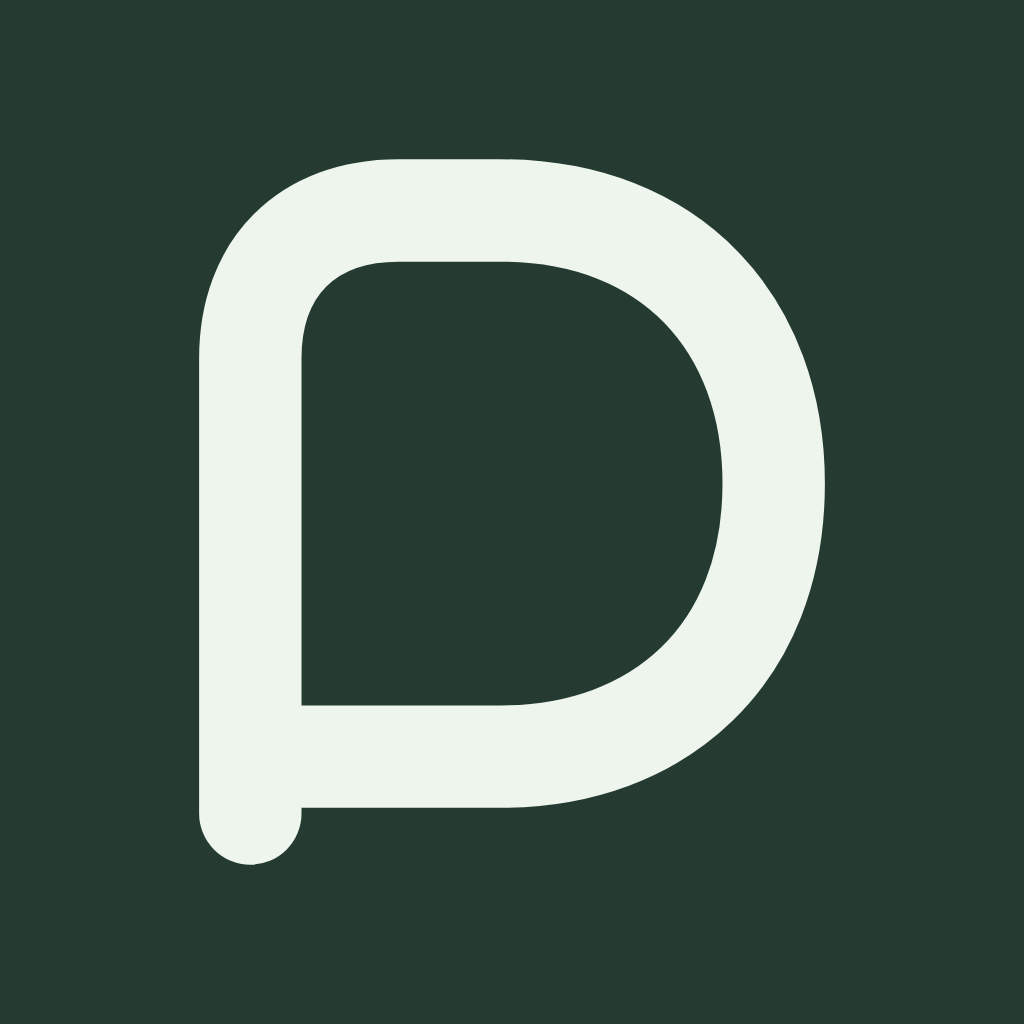
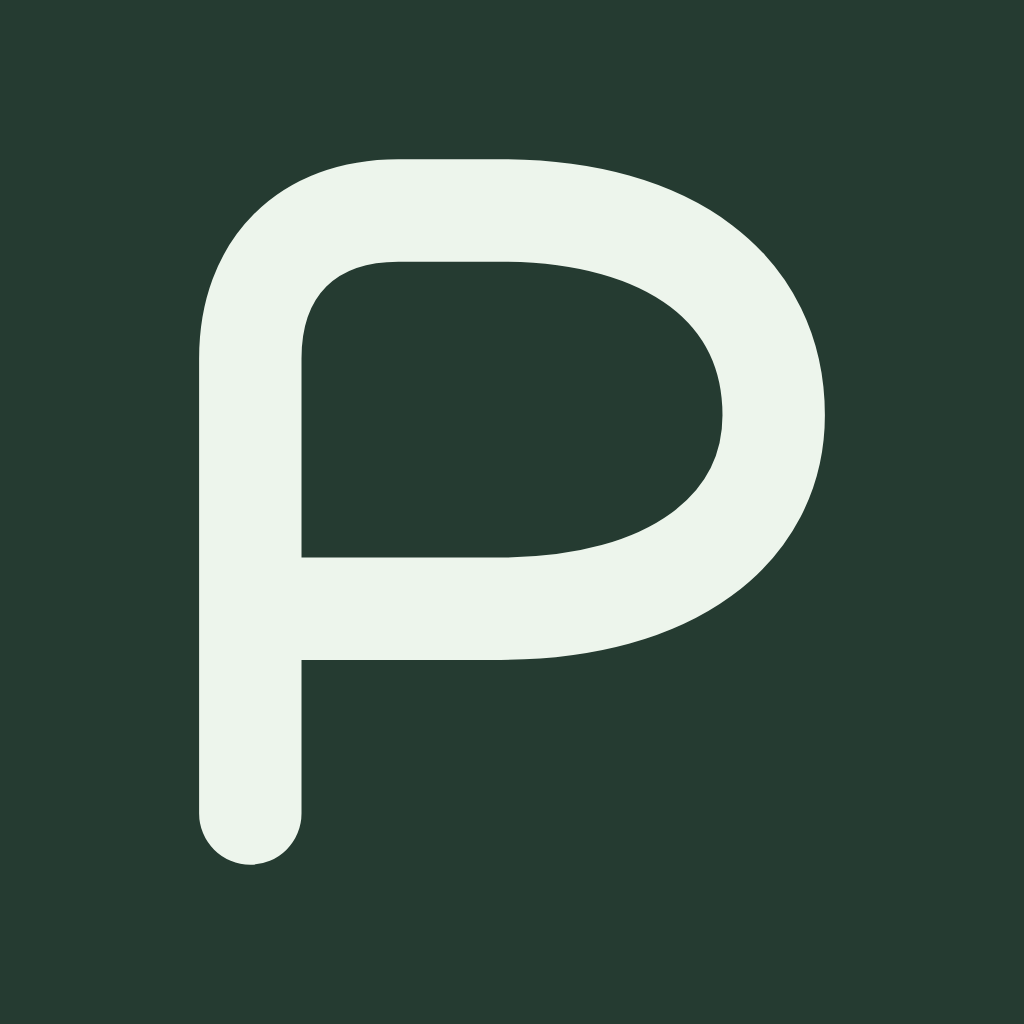
Update brand assets and styles
- Modified the SVG files for social source and favicon to enhance visual consistency.
- Updated CSS for Brand component to adjust gap size for better alignment.
- Changed spacing values in brand generation script for improved typography.
- Updated JSON file for brand identity to reflect new SVG paths.
- Replaced binary favicon and icon images with updated versions for better quality.

Changed region(s): [[0.2812, 0.1875, 0.8125, 0.8125], [0.5625, 0.25, 0.6562, 0.3125], [0.5625, 0.1562, 0.6562, 0.1875]]

diff --git a/frontend/src/components/Brand.css b/frontend/src/components/Brand.css
@@ -4,7 +4,7 @@
   display: inline-flex;
   flex: none;
   align-items: center;
-  gap: calc(var(--pivoris-size) * 0.18);
+  gap: calc(var(--pivoris-size) * 0.16);
   height: var(--pivoris-size);
   vertical-align: middle;
   color: inherit;

diff --git a/landing/src/Brand.css b/landing/src/Brand.css
@@ -4,7 +4,7 @@
   display: inline-flex;
   flex: none;
   align-items: center;
-  gap: calc(var(--pivoris-size) * 0.18);
+  gap: calc(var(--pivoris-size) * 0.16);
   height: var(--pivoris-size);
   vertical-align: middle;
   color: inherit;

diff --git a/scripts/brand/Brand.css b/scripts/brand/Brand.css
@@ -4,7 +4,7 @@
   display: inline-flex;
   flex: none;
   align-items: center;
-  gap: calc(var(--pivoris-size) * 0.18);
+  gap: calc(var(--pivoris-size) * 0.16);
   height: var(--pivoris-size);
   vertical-align: middle;
   color: inherit;

diff --git a/scripts/generate_brand.py b/scripts/generate_brand.py
@@ -36,8 +36,8 @@ pen = SVGPathPen(
     glyphs, ntos=lambda value: f"{value:.2f}".rstrip("0").rstrip(".") if value else "0"
 )
 cursor = 0
-# Hand-set pairs in font units: tighter pi / iv, open vo / ri, and a quiet finish.
-spacing = [-32, -22, -5, -18, -14, -18, 0]
+# Hand-set pairs in font units. Pull i/v and v/o into the diagonals' white space.
+spacing = [-32, -38, -26, -18, -22, -18, 0]
 for index, letter in enumerate("pivoris"):
     if letter == "i":
         # Keep the original stem; replace its square dot with a circular dot that
@@ -56,6 +56,15 @@ for index, letter in enumerate("pivoris"):
         pen.curveTo((cx - r, cy - k), (cx - k, cy - r), (cx, cy - r))
         pen.curveTo((cx + k, cy - r), (cx + r, cy - k), (cx + r, cy))
         pen.closePath()
+    elif letter == "v":
+        # The signature detail: soften the existing v's vertex, keeping its
+        # original top terminals, advance and diagonal weight. The i dots stay
+        # unchanged; there is no second decorative motif.
+        parse_path(
+            "M40 1080H275.2L532 330Q550 278 568 330L824.4 1080H1060"
+            "L680 58Q658 0 598 0H502Q442 0 420 58Z",
+            TransformPen(pen, (1, 0, 0, -1, cursor, 0)),
+        )
     else:
         glyphs[letter].draw(TransformPen(pen, (1, 0, 0, -1, cursor, 0)))
     cursor += glyphs[letter].width + spacing[index]

diff --git a/docs/product/brand-identity.md b/docs/product/brand-identity.md
@@ -1,13 +1,19 @@
 # Pivoris brand identity
 
-The official symbol is the supplied root `logo.svg`. Its path, nine-unit stroke,
-round joins and round caps stay unchanged. The component crops and centers the
-viewport optically; icon exports translate and scale the entire symbol uniformly.
+The official symbol is the supplied root `logo.svg`, refined with a higher bowl
+return so its vertical stem reads clearly as a P. The bowl now meets the stem at
+y=52 rather than y=65, leaving an 18-unit lower stem. The original rounded upper
+shoulder, outer dimensions, nine-unit stroke, joins and caps are retained. The
+component crops and centers the viewport optically; icon exports translate and
+scale the entire symbol uniformly.
 
 The lowercase wordmark starts with the bundled **Manrope variable font at 680**.
 Its open bowls and restrained geometry complement the existing Manrope headings
-and Inter interface. Hand-set letter spacing and circular `i` dots echo the
-monogram's rounded terminals. The wordmark ships as SVG outlines, so no additional
+and Inter interface. The signature feature is a custom `v` with a softly rounded
+vertex, retaining its original terminals, diagonal weight and advance width.
+Spacing around `iv`, `vo` and `ri` is optically tightened. The circular `i` dots
+from the first identity remain unchanged, keeping the detail focused. The
+wordmark ships as SVG outlines, so no additional
 font request, fallback lettering or font-loading layout shift is introduced.
 Manrope is licensed under SIL OFL 1.1; provenance and license remain in both apps'
 `public/fonts/` directories. The customized wordmark is artwork, not a modified
@@ -30,8 +36,8 @@ builds and existing Docker build contexts.
 Variants are `horizontal` (default), `wordmark` and `monogram`. Sizes are `xs`
 (20px), `sm` (28px), `md` (36px) and `lg` (40px). All dimensions scale with root
 text size. The wordmark is 80% of the selected height; symbol-to-wordmark spacing
-is 18%. The landing navigation and public phone header use a 24px compact size
-below 360px.
+is 16%, slightly tighter than the first identity's 18%. The landing navigation
+and public phone header use a 24px compact size below 360px.
 
 Tone `inherit` (default) follows the surrounding semantic text color and supports
 the landing theme toggle. `light` uses forest green `#253b31` on light surfaces;
@@ -99,3 +105,9 @@ header, and expanded/collapsed sidebar. Workspace API responses were fictional
 local fixtures. Browser checks found no JavaScript errors or horizontal overflow.
 At 320px, compact navigation artwork and shrinkable hero grid children prevent
 clipping. No business logic or API behavior changed.
+
+The refinement pass additionally compares both identities at actual navbar and
+compact sizes, and monograms at 16/24/32px on both surfaces. Both production
+builds (including TypeScript checks), frontend lint, and the 17-test PWA suite
+pass. Generated artwork is consistent across both apps, all ICO/PNG dimensions
+are verified, and the maskable symbol stays within the safe circle.
